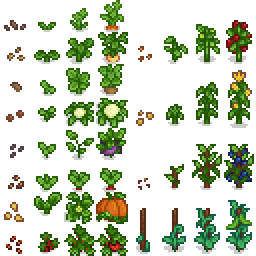
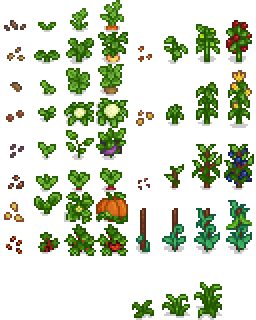
added weeds to get seeds

diff --git a/js/my_world.js b/js/my_world.js
@@ -116,6 +116,7 @@ let seeds = 10;
 let rocks = {}; // Object to track tiles with rocks
 let trees = {}; // Object to track tiles with trees
 let deadtrees = {}; // Object to track tiles with trees
+let weeds = {}; // Object to track tiles with weeds
 let houses = {};
 let rockPosition = {};
 let treePosition = {};
@@ -151,6 +152,7 @@ function p3_worldKeyChanged(key) {
   rocks = {}; // Object to track tiles with rocks
   trees = {}; // Object to track tiles with trees
   deadtrees = {}; // Object to track tiles with trees
+  weeds = {}; // Object to track tiles with weeds
   houses = {};
   rockPosition = {};
   treePosition = {};
@@ -366,9 +368,18 @@ function p3_tileClicked(i, j) {
     }
   });
 
+  // Check if the player is next to any weed tiles
+  let playerNextToWeed = null;
+  adjacentTiles.some(tile => {
+    if (weeds[tile]) {
+      playerNextToWeed = tile;
+      return true; // Stop iteration once a weed is found
+    }
+  });
+
   let actionTaken = false;
   // Check if the player is next to a rock or tree
-  if ((playerNextToRock || playerNextToTree || playerNextToDeadTree) && !actionTaken) {
+  if ((playerNextToRock || playerNextToTree || playerNextToDeadTree || playerNextToWeed) && !actionTaken) {
     // Check if the clicked tile or any of its adjacent tiles are rocks
     if (playerNextToRock && adjacentTiles.some(tile => rockPosition[tile] && tile[0] >= i - 1 && tile[0] <= i && tile[1] >= j - 1 && tile[1] <= j)) {
       // If it's a rock, perform your action (increment stone count, remove image, etc.)
@@ -379,6 +390,7 @@ function p3_tileClicked(i, j) {
           if (rocks[[x, y]]) {
             rocks[[x, y]] = false;
             rockPosition[[x, y]] = false;
+            console.log(rocks)
             removeObstacle([x,y]);
           }
         }
@@ -420,6 +432,18 @@ function p3_tileClicked(i, j) {
       }
       startGathering();
       actionTaken = true;
+    }
+
+    // Check if the clicked tile or any of its adjacent tiles are weeds
+    if (playerNextToWeed && adjacentTiles.some(tile => weeds[tile] && tile[0] >= i - 1 && tile[0] <= i && tile[1] >= j - 1 && tile[1] <= j)) {
+      // If it's a weed, perform your action (increment stone count, remove image, etc.)
+      // Reset the weed status for the clicked tile and its adjacent tiles
+          if (weeds[[i, j]]) {
+            seeds++;
+            weeds[[i, j]] = false;
+            startGathering();
+            actionTaken = true;
+      }
     }
 
     // If no action was taken, treat the click as a regular tile click
@@ -977,12 +1001,29 @@ function p3_drawAfter(i, j) {
     [-2, -3]  // Up, then Left
   ];
   
-  if (XXH.h32("tile:" + [i, j], worldSeed) % 50 == 0 && getBiomeType(i, j) === "grassland") {
+  if (XXH.h32("tile:" + [i, j], worldSeed) % 11 == 0 && getBiomeType(i, j) === "grassland") {
     let isValidPosition = true;
     for (let [dx, dy] of directions) {
         const x = i + dx;
         const y = j + dy;
-        if (treePosition[[x, y]] || deadtreePosition[[x, y]] || rockPosition[[x, y]] || getBiomeType(x, y) === "water") {
+        if (treePosition[[x, y]] || deadtreePosition[[x, y]] || rockPosition[[x, y]] || weeds[[x, y]] || getBiomeType(x, y) === "water") {
+            isValidPosition = false;
+            break; // Exit loop early since we found an adjacent or diagonal tile occupied by a tree
+        }
+    }
+    if (isValidPosition) {
+      if (weeds[[i, j]] !== false)
+        weeds[[i, j]] = true;
+    } else {
+        weeds[[i, j]] = false; // Reset current tile to false if adjacent or diagonal tile is occupied by a tree
+    }
+  }
+  else if (XXH.h32("tile:" + [i, j], worldSeed) % 50 == 0 && getBiomeType(i, j) === "grassland") {
+    let isValidPosition = true;
+    for (let [dx, dy] of directions) {
+        const x = i + dx;
+        const y = j + dy;
+        if (treePosition[[x, y]] || deadtreePosition[[x, y]] || rockPosition[[x, y]] || weeds[[x, y]] || getBiomeType(x, y) === "water") {
             isValidPosition = false;
             break; // Exit loop early since we found an adjacent or diagonal tile occupied by a tree
         }
@@ -998,7 +1039,7 @@ function p3_drawAfter(i, j) {
     for (let [dx, dy] of directions) {
         const x = i + dx;
         const y = j + dy;
-        if (treePosition[[x, y]] || deadtreePosition[[x, y]] || rockPosition[[x, y]] || getBiomeType(x, y) === "water") {
+        if (treePosition[[x, y]] || deadtreePosition[[x, y]] || rockPosition[[x, y]] || weeds[[x, y]] || getBiomeType(x, y) === "water") {
             isValidPosition = false;
             break; // Exit loop early since we found an adjacent or diagonal tile occupied by a deadtree
         }
@@ -1014,7 +1055,7 @@ function p3_drawAfter(i, j) {
     for (let [dx, dy] of directions) {
         const x = i + dx;
         const y = j + dy;
-        if (treePosition[[x, y]] || deadtreePosition[[x, y]] || rockPosition[[x, y]] || getBiomeType(x, y) === "water") {
+        if (treePosition[[x, y]] || deadtreePosition[[x, y]] || rockPosition[[x, y]] || weeds[[x, y]] || getBiomeType(x, y) === "water") {
             isValidPosition = false;
             break; // Exit loop early since we found an adjacent or diagonal tile occupied by a rock
         }
@@ -1077,6 +1118,23 @@ function p3_drawAfter(i, j) {
       orCol = 0;
       orRow = 1;
       image(overworldResourcesTilesheet, 0, 0, 64, 64, orCol * 32 , orRow * 32, 32, 32);
+    }
+  }
+
+  if (weeds[[i, j]] === true) {
+    if (weeds[[i, j]] !== false) {
+      orCol = 4;
+      orRow = 4;
+      let num = XXH.h32("tile:" + [[i, j]], worldSeed) % 3;
+      orCol += num;
+      weeds[[i, j]] = true;
+      image(cropTilesheet, 0, -40, 32, 64, 32 * orCol, 64 * orRow, 32, 64);
+    }
+    else {
+      orCol = 0;
+      orRow = 8;
+      console.log('test')
+      image(cropTilesheet, 0, -40, 32, 64, 32 * orCol, 64 * orRow, 32, 64);
     }
   }
 
@@ -1184,6 +1242,7 @@ function p3_drawAfter(i, j) {
         rocks[[i + i0, j - j0]] = false;
         trees[[i + i0, j - j0]] = false;
         deadtrees[[i + i0, j - j0]] = false;
+        weeds[[i + i0, j - j0]] = false;
         rockPosition[[i + i0, j - j0]] = false;
         treePosition[[i + i0, j - j0]] = false;
         deadtreePosition[[i + i0, j - j0]] = false;

diff --git a/js/engine.js b/js/engine.js
@@ -253,7 +253,6 @@ function draw() {
     text("Build", width / 2, height / 3);
     textSize(24);
     text("Click to Start", width / 2, height / 2);
-    textSize(16);
   } else {
     updateGathering();
 
